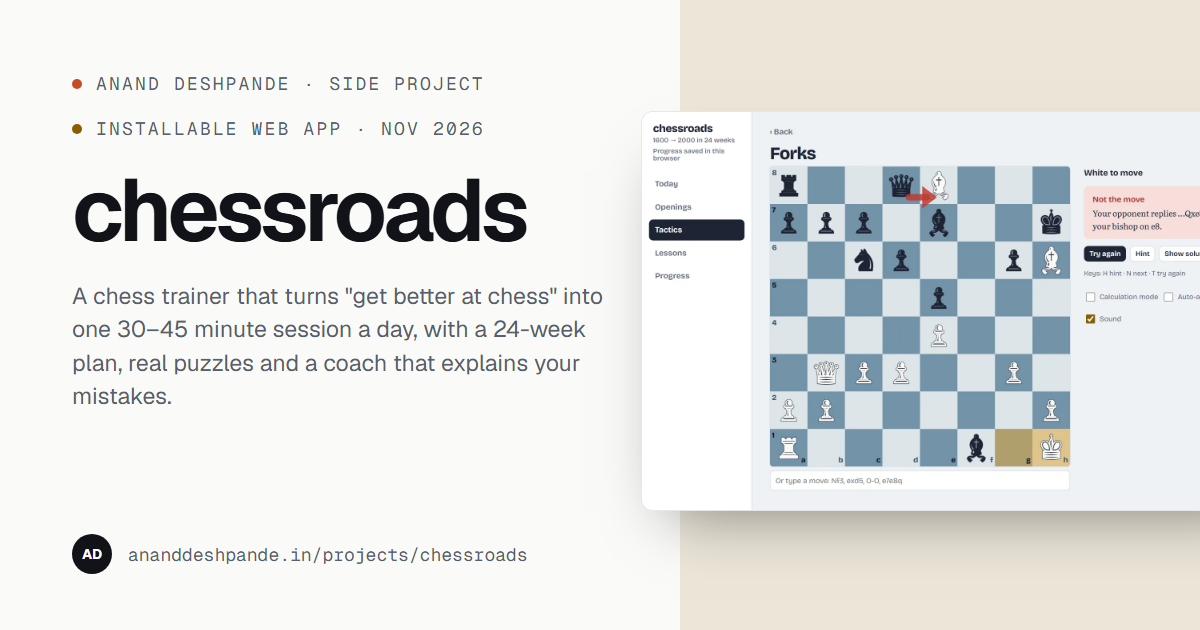
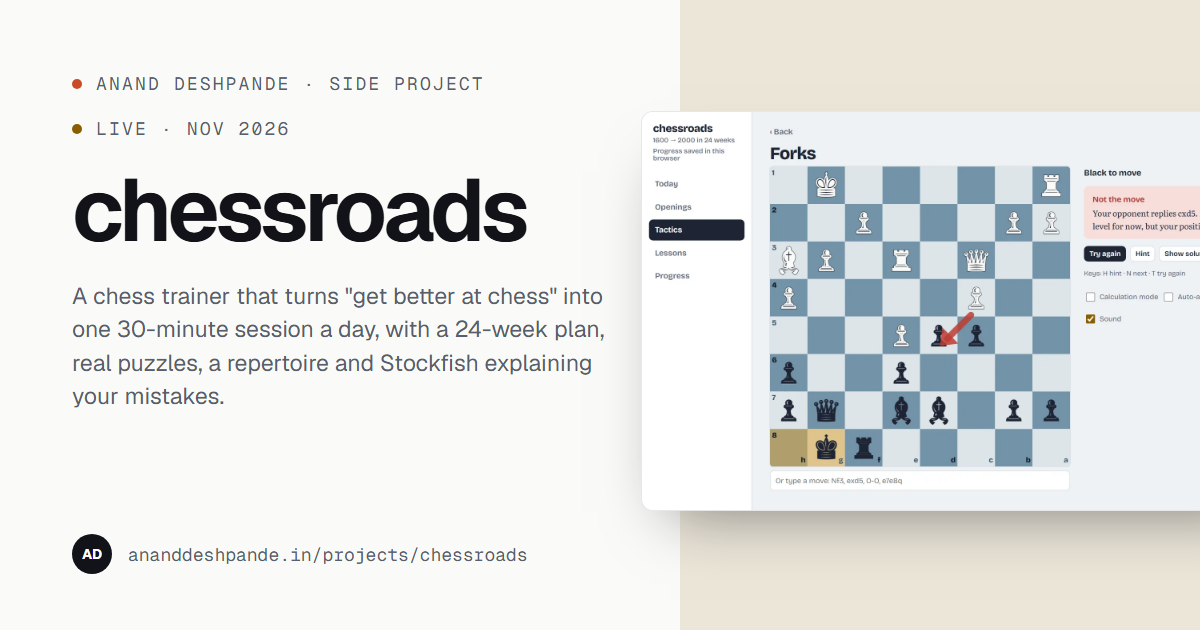
Update chessroads to the live GitHub Pages version
- Status "Live" with a "Start training" link to anandd512.github.io/chessroads
- Copy matches the latest app: about 30-minute sessions, Stockfish 19
  in the browser, no longer installable or offline, players 1400-1900,
  all 41 review issues fixed, updated What's next
- Fresh screenshots and social preview from the current build
- AGENTS.md: chessroads row and facts updated

diff --git a/content/projects/chessroads.md b/content/projects/chessroads.md
@@ -1,19 +1,19 @@
 ---
 title: chessroads
-summary: A chess trainer that turns "get better at chess" into one 30–45 minute session a day, with a 24-week plan, real puzzles, a repertoire and a coach that explains your mistakes.
+summary: A chess trainer that turns "get better at chess" into one 30-minute session a day, with a 24-week plan, real puzzles, a repertoire and Stockfish explaining your mistakes.
 date: '2026-11'
 role: Product · Design · Build
-status: Installable web app
+status: Live
 order: 2
 featured: false
 accent: '#8A5D00'
 tags:
   - Learning tools
-  - Offline-first
+  - Spaced repetition
   - Chess
 cover:
   src: /projects/chessroads/cover.webp
-  alt: A forks puzzle in chessroads after a wrong move. A red arrow shows the opponent's reply, and the coach says "Not the move. Your opponent would reply Ng5. Your move isn't a blunder, but there is a stronger one."
+  alt: A forks puzzle in chessroads after a wrong move. A red arrow shows the opponent's reply, and the coach says "Not the move. Your opponent replies cxd5. Material stays level for now, but your position falls apart."
 gallery:
   - src: /projects/chessroads/line.webp
     alt: Learning the Giuoco Piano in chessroads. A green arrow shows the next move, and a note explains that Black mirrors you with Bc5.
@@ -23,28 +23,31 @@ gallery:
     caption: Open it, do today's session, close it. The plan remembers where you are.
 glance:
   problem: Improving players have endless puzzles, courses and videos, and no idea what to do today.
-  user: Club players around 1600 who want to reach 2000 and have about 40 minutes a day.
+  user: Players rated roughly 1400–1900 online who play regularly but have stopped improving.
   bet: A fixed plan of short daily sessions beats a library of disconnected tools.
-  cut: Accounts, servers and a build step. One HTML file that works offline.
-  outcome: A 24-week course with about 4,250 puzzles, 26 repertoire lines and 20 lessons, running entirely in the browser.
-demoUrl: https://github.com/anandd512/chessroads#running-it
-demoLabel: Run it (one file)
+  cut: Accounts, servers and a build step. One web page, with progress kept in your browser.
+  outcome: A free 24-week course with over 4,000 puzzles, 26 repertoire lines and 20 lessons, running entirely in the browser.
+demoUrl: https://anandd512.github.io/chessroads/
+demoLabel: Start training
 repoUrl: https://github.com/anandd512/chessroads
 buildMetrics:
   - label: Plan
     value: 24 weeks, 7 sessions each
   - label: Puzzles
-    value: ~4,250 from Lichess
+    value: 4,000+ from Lichess
   - label: Named opening lines
     value: 3,865
+  - label: Engine
+    value: Stockfish 19, in your browser
   - label: Runs on
-    value: Any browser, offline
+    value: Any modern browser
 techStack:
   - JavaScript
   - HTML (single file)
+  - Stockfish 19 (WebAssembly)
   - Web Workers
-  - Service Worker (PWA)
   - localStorage
+  - GitHub Pages
   - Node (content validator)
 aiModels:
   - Claude Opus 5.5
@@ -52,35 +55,34 @@ aiModels:
 
 ## The story
 
-Chess improvement advice is always the same: do puzzles, learn your openings, play longer games, review them. All true, and none of it tells you what to do when you sit down tonight with 40 minutes. So most people end up doing whatever is easiest, usually blitz.
+Chess improvement advice is always the same: do puzzles, learn your openings, play longer games, review them. All true, and none of it tells you what to do when you sit down tonight with half an hour. So most people bounce between random puzzles, opening videos and blitz, and their rating stalls.
 
-**chessroads** answers that one question. It's a 24-week road from about 1600 to 2000, broken into sessions. Open the app, do today's session, close it. The plan moves on, and you never have to decide what to study next.
+**chessroads** answers that one question. It's a 24-week road from roughly 1600 to 2000, broken into sessions of about 30 minutes. Open it, do today's session, close it. The plan moves on, and you never have to decide what to study next.
 
 ## What I built
 
-- **A 24-week plan.** Each week has a theme (forks, pins, the back rank, rook endgames…) and seven sessions: tactics and study, games to play and review, and a review day.
-- **Puzzles that explain themselves.** About 4,250 real positions from the Lichess open database across 54 themes, plus an adaptive puzzle rating. A wrong move isn't just a red X: the coach plays the refuting reply and tells you what it costs.
-- **A repertoire built on plans.** 26 lines for White and Black with a reason for every move, learn and drill modes, spaced repetition, and good alternatives accepted. There's also an encyclopedia of 3,865 named lines you can learn from either side.
-- **Lessons you play, not just read.** 12 middlegame and 8 endgame lessons with demos, find-the-move positions, quizzes and endgame drills against a built-in engine (Lucena, Philidor, opposition and friends).
-- **Mistakes come back.** Missed puzzles return after about 12 hours, then 3, 7 and 21 days, until you solve them cleanly.
+- **A 24-week plan.** Each week has a theme (forks, pins, the back rank, rook endgames…), a checkpoint like "Hold the Philidor draw", and seven sessions: tactics and study, real games to play and review, and a review day.
+- **Puzzles that explain themselves.** Over 4,000 positions from real games in the Lichess open database, across 54 themes, plus an adaptive puzzle rating. A wrong move isn't just a red X: Stockfish plays the reply that refutes it, and the coach tells you what it costs.
+- **A repertoire that explains itself.** 26 lines for White and Black, with a reason for every move you play, learn and drill modes, spaced repetition, and good alternatives accepted. Twelve opening traps, and an encyclopedia of 3,865 named lines you can play from either side.
+- **Lessons you play, not just read.** 12 middlegame and 8 endgame lessons with demos, quizzes and find-the-move positions. The endgames end with drills against Stockfish: mate with king and rook, win the Lucena, hold the Philidor.
+- **Mistakes come back.** Missed puzzles and learned lines return on a spaced-repetition schedule, so what you learn this week is still there in month five.
 
 > The hardest part of getting better isn't the training. It's deciding what to train today.
 
 ## Decisions & trade-offs
 
-- **One file, no server.** The whole app, including its content, chess rules and engine, is a single HTML file. It installs to a phone's home screen, works offline, and has no account to forget.
-- **A small engine, used carefully.** The built-in alpha-beta engine is fine for drills and refutations, not deep analysis. It runs in a Web Worker so the board never freezes while it thinks.
-- **Honest coaching over confident coaching.** The coach measures what an exchange really costs before it says you lost material. In plan exercises, it says "not the idea of this lesson" instead of calling a reasonable move a blunder.
-- **Reviewed like a real product.** Before 3.1, I ran a full product and UX review with two simulated personas, a grandmaster and a novice, and checked every line, lesson and puzzle with the app's own chess code. It turned up 41 issues, from dead-end puzzles to progress counts that read 29/26. 40 are fixed. The last one, a famous sacrifice my little engine doesn't believe in, is waiting for a Stockfish second opinion.
-- **A validator for the content.** A Node script replays every opening line, alternative, lesson position and puzzle, and checks that the plan schedules every theme it promises.
+- **One page, no server.** The whole app, including every puzzle, line and lesson, is a single HTML file on GitHub Pages. No account, no sign-up, no ads. Progress stays in your browser, and you can export it any time.
+- **A real engine, loaded only when needed.** I started with a small home-made engine, then swapped in Stockfish 19 light (about 1.8 MB of WebAssembly). It loads the first time a board needs it and runs in a Web Worker, so the page never freezes. The single-threaded build needs no special server headers, which is what lets it run on GitHub Pages as is.
+- **Honest coaching over confident coaching.** The coach measures what an exchange really costs before it says you lost material, and in plan exercises it says "not the idea of this lesson" instead of calling a reasonable move a blunder. Every find-the-move answer was checked with Stockfish, and equally good moves are accepted too.
+- **Reviewed like a real product.** I ran a full product and UX review with two simulated personas, a grandmaster and a novice, and replayed every line, lesson and puzzle with the app's own chess code. It turned up 41 issues, from dead-end puzzles to progress counts that read 29/26. All 41 are fixed.
+- **A validator for the content.** A Node script replays every opening line, puzzle and lesson position, checks the plan's references, and warns about any move without an explanation.
 
 ## Outcome
 
-A complete training course that fits in one file and runs anywhere. The biggest lesson was that in a learning product, accuracy is the feature: one false "you lose a knight" costs more trust than a crash.
+A complete, free training course that fits in one web page and runs on a laptop, tablet or phone. The biggest lesson: in a learning product, accuracy is the feature. One false "you lose a knight" costs more trust than a crash.
 
 ## What's next
 
-- Stockfish (WebAssembly) for stronger feedback and an analysis board.
 - Importing your real games from Lichess or chess.com, so the plan reacts to how you actually play.
-- A notes pass, so every learner move in the repertoire explains itself.
 - A beginner road, with easier puzzles below 1000.
+- A repertoire tree that covers more club-level sidelines.

diff --git a/AGENTS.md b/AGENTS.md
@@ -185,7 +185,7 @@ channels so `rgb(var(--x) / <alpha>)` works. Tailwind maps them to `paper`, `pap
 | --- | --- | --- | --- | --- | --- |
 | 0 | Artha (`wealth-manager`) | Windows + iOS · Oct 2026 | yes | GitHub releases ("Download for Windows") | anandd512/wealth-manager |
 | 1 | CardArena (`taash-table`) | Live · Mar 2026 | yes | Azure App Service ("Play now") | anandd512/cardgames |
-| 2 | chessroads (`chessroads`) | Installable web app · Nov 2026 | no | GitHub "Running it" ("Run it (one file)") | anandd512/chessroads |
+| 2 | chessroads (`chessroads`) | Live · Nov 2026 | no | anandd512.github.io/chessroads ("Start training") | anandd512/chessroads |
 | 3 | Drawesome (`drawesome`) | Live · Aug 2026 | no | anandd512.github.io/drawesome | anandd512/drawesome |
 | 4 | ELI5 (`eli5`) | Chrome & Edge extension · Aug 2026 | no | GitHub setup ("Install (2 min)") | anandd512/ELI5 |
 | 5 | Pacman, Rebuilt (`pacman`) | Playable here · Aug 2025 | no | /play/pacman/ (embedded) | anandd512/PACMAN |
@@ -197,10 +197,11 @@ Facts verified against the repos:
   sync was removed, so it is not claimed.
 - **CardArena:** plain JavaScript client + Node/Express/Socket.IO. Server-authoritative state with
   per-seat views; bots take over dropped seats; rooms are in memory.
-- **chessroads:** a single `index.html` PWA (no server, no build), plain JavaScript with a small alpha-beta
-  engine in a Web Worker. Content counts from the embedded data: 4,251 puzzles, 26 repertoire lines,
-  12 traps, 12 + 8 lessons, 3,865 encyclopedia lines. AI model from commit trailers: Claude Opus 5.5.
-  Not deployed yet (GitHub Pages 404), so no "Live" claim; of the 41 review issues, B8 is still open.
+- **chessroads:** a single `index.html` on GitHub Pages (no server, no build, no longer installable or
+  offline). Move rules are the app's own code; move search is Stockfish 19 light (WebAssembly, Web Worker,
+  loaded on first use). Content from the embedded data: 4,251 puzzles, 26 repertoire lines, 12 traps,
+  12 + 8 lessons, 3,865 encyclopedia lines. Sessions are "about 30 minutes"; target players 1400–1900.
+  All 41 review issues fixed. AI model from commit trailers: Claude Opus 5.5.
 - **Drawesome:** text-to-diagram requires a connected AI model.
 - **Pacman:** DOM grid (not canvas). Red ghost chases, pink ambushes, cyan mostly wanders.
 
